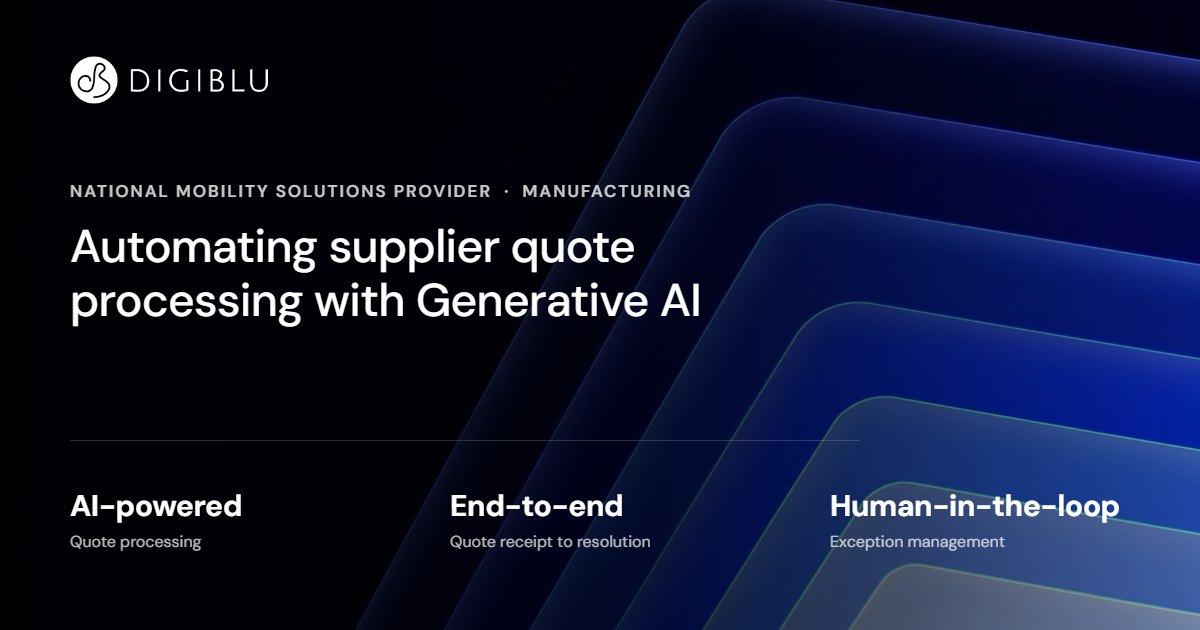
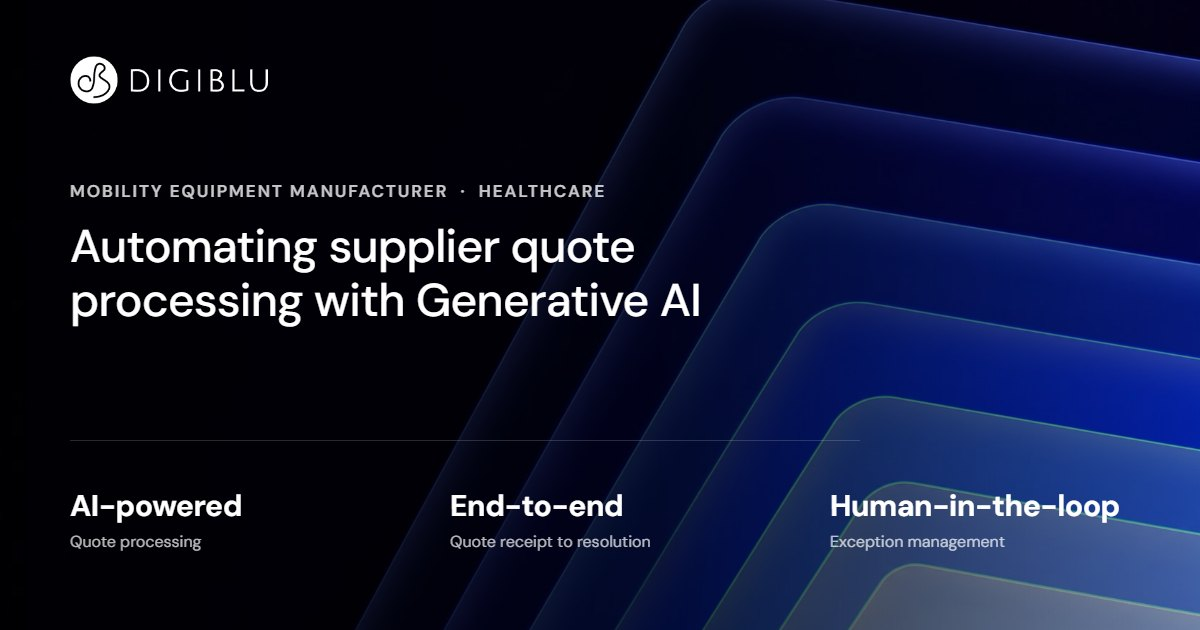
Quote-processing case study: anonymous client label, healthcare sector
"Mobility equipment manufacturer" in place of "National mobility
solutions provider", which hinted at the client's name; sector Healthcare
so the eyebrow does not read "manufacturer, manufacturing". Share card
rebuilt with the new label, from a receiver that now serves the assets
itself since the old static site is gone.

Changed region(s): [[0.0617, 0.2714, 0.5858, 0.3317]]

diff --git a/components/sections/CaseStudies.tsx b/components/sections/CaseStudies.tsx
@@ -58,7 +58,7 @@ export default function CaseStudies() {
             <article className="case">
               <div className="case-grid">
                 <div>
-                <span className="case-client">National mobility solutions provider</span>
+                <span className="case-client">Mobility equipment manufacturer</span>
                 <h3 className="case-headline">Automating supplier quote processing with Generative AI</h3>
                 </div>
                 <div>

diff --git a/CLAUDE.md b/CLAUDE.md
@@ -209,7 +209,7 @@ CSS custom properties on `:root`, redefined under `:root[data-theme="light"]` an
    - **The sidebar paginates at 10 rows.** `PAGE_SIZE` in the case-study IIFE; `#caseReaderPager` renders prev / numbered pages / next below the list, and **only when there is more than one page** - a lone "Page 1" is noise, so at today's eight case studies nothing shows and it turns itself on at the eleventh with no further wiring. The page follows the selection: opening a case study from a card calls `markActive`, which switches to the page holding that entry before highlighting, so the reader never highlights a row that is not on screen. **`.reader-list`'s horizontal padding is load-bearing, not spacing**: rows carry `margin: 0 -14px` so the selected/hover fill bleeds past the text column, and a scroll container clips what overflows it - so the moment the list became the scroller, that bleed was cut and the selected blue row rendered visibly cropped down its left edge (reported). Matching `padding: 0 14px` with a compensating negative margin gives the bleed room inside the scroller. **The list scrolls, not the aside** (`.reader-list` took over `overflow-y`, `.reader-side` is now `overflow: hidden`) - otherwise the pager sits below ten rows of content and you have to scroll to reach it. Buttons go to 38px below 900px for touch. Verified by temporarily setting `PAGE_SIZE = 3` against the real eight entries, which is the only way to exercise the multi-page path before an eleventh case study exists.
    - **On a phone the close X is a header row, not a float.** At or below 640px the panel is a column and the reading pane is its own scroller, so the absolutely positioned X (a child of the panel, not the pane) stayed put while the photograph, eyebrow pill and stat boxes scrolled under it (reported 2 Sep 2026). It is now in flow above the pane, right-aligned, the panel is `overflow: hidden` and the pane scrolls beneath it - the contact modal's pattern, including the `min-height: 0` without which the pane grows the panel instead of scrolling. Applied to the service dialog too, which shares the structure. Above 640px the pane's 52px gutter keeps the X clear, so desktop is untouched.
    - **Reader layout, not index + detail.** On request ("all articles should be left side of this screen and read full article on the right, apply same logic throughout i.e. case studies") the separate index popup (`#caseIndexModal`) was removed and the detail dialog became a two-pane reader: `.reader-side` (330px, every engagement as a `.case-index-item` row, the one being read on brand blue via `.is-active` + `aria-current`) beside the existing `.case-modal-body`. `.modal-panel` was already a flex row, so the two columns each scroll independently inside its max-height; `.modal-panel.reader-panel` raises the max-width to 1140px (doubled selector because `.case-modal-panel`/`.service-panel` set their own at equal specificity, later in the file). Picking a row calls `select(key)` - populate in place, reset the reading pane's scroll, and nudge the sidebar only if the row is out of view, so clicking a row near the bottom does not yank the list to the top. **Below 900px** the sidebar is `display: none` and the footer's "All case studies" button (`.case-back-btn.reader-toggle`, hidden on desktop) adds `.show-list` to the panel, which swaps the reading pane out for the list; picking a row swaps back. "View all" opens the reader on the last-read entry (first, before any) with `.show-list` set, so on mobile it lands on the list. Verified at 1829px and 375px in both directions, plus ctrl-click still navigating.
-   - **A ninth case study, "Automating supplier quote processing with Generative AI", was added on 10 Sep 2026** (key `quote-processing`, client "National mobility solutions provider", sector Manufacturing, service Artificial Intelligence) from copy DigiBlu supplied, **and it took Cedar Creek Church's featured slot** (featured 3; Cedar Creek stays in the reader at order 4, the new one at order 3). The client is NSM, National Seating & Mobility, and is **anonymised at DigiBlu's request** the way the healthcare provider and the US city agency are - the key and the URL carry no client name. Reformatted to the set's shape: one paragraph per section, condensed from the supplied multi-paragraph sections keeping DigiBlu's facts and phrasing (the Cedar Creek precedent), the supplied title "AI-Powered Quote Processing Automation" recast as a gerund sentence-case headline like the other eight, the three supplied "big stats" (phrases, not numbers) split into pill value + label ("AI-powered / Quote processing", "End-to-end / Quote receipt to resolution", "Human-in-the-loop / Exception management"), and three card tags on the home page. **The quote is the "e.g." placeholder from the brief**, attributed as supplied to Tim Sunley, Client Engagement Lead, DigiBlu, and marked `[INSERT QUOTE]` in the brief - it stays until DigiBlu confirms or replaces it. **No photograph yet**: `photo` points at `/assets/case-studies/quote-processing.jpg`, which does not exist, so the reader shows the `.aN` gradient fallback (the Cedar Creek precedent); a download needs the user's yes. The share card exists (`public/assets/og/case-studies/quote-processing.jpg`, built as the others). "Manufacturing" is the sector because the brief calls the client "a large national manufacturer and provider of mobility solutions"; DigiBlu may prefer another label.
+   - **A ninth case study, "Automating supplier quote processing with Generative AI", was added on 10 Sep 2026** (key `quote-processing`, client "Mobility equipment manufacturer", sector Healthcare, service Artificial Intelligence - **the label was "National mobility solutions provider" for an hour and was changed because "National ... Mobility" hints at the client's name; the user asked for "mobility manufacturer or something like that". Healthcare rather than Manufacturing as the sector so the eyebrow does not read "manufacturer · manufacturing"**) from copy DigiBlu supplied, **and it took Cedar Creek Church's featured slot** (featured 3; Cedar Creek stays in the reader at order 4, the new one at order 3). The client is NSM, National Seating & Mobility, and is **anonymised at DigiBlu's request** the way the healthcare provider and the US city agency are - the key and the URL carry no client name. Reformatted to the set's shape: one paragraph per section, condensed from the supplied multi-paragraph sections keeping DigiBlu's facts and phrasing (the Cedar Creek precedent), the supplied title "AI-Powered Quote Processing Automation" recast as a gerund sentence-case headline like the other eight, the three supplied "big stats" (phrases, not numbers) split into pill value + label ("AI-powered / Quote processing", "End-to-end / Quote receipt to resolution", "Human-in-the-loop / Exception management"), and three card tags on the home page. **The quote is the "e.g." placeholder from the brief**, attributed as supplied to Tim Sunley, Client Engagement Lead, DigiBlu, and marked `[INSERT QUOTE]` in the brief - it stays until DigiBlu confirms or replaces it. **No photograph yet**: `photo` points at `/assets/case-studies/quote-processing.jpg`, which does not exist, so the reader shows the `.aN` gradient fallback (the Cedar Creek precedent); a download needs the user's yes. The share card exists (`public/assets/og/case-studies/quote-processing.jpg`, built as the others). The overview keeps the brief's own words, "a large national manufacturer and provider of mobility solutions".
    - **First National Bank was replaced by Cedar Creek Church on 8 Sep 2026** (key `cedar-creek`, Faith & Community, Digital Solutions: six Jotform workflows in three weeks), on request, from copy DigiBlu supplied. It went in verbatim first (four multi-paragraph sections) and was **condensed the same day on request** ("seems long in comparison") to one paragraph per section like the other seven, keeping DigiBlu's own facts and phrasing; the full text is in git history. The quote is a contiguous excerpt - the first three sentences of the supplied quote - not a paraphrase. `addSection()` and the generator still split a body on a literal `\n` into one `<p>` each, added for the verbatim version; nothing uses it today, but a future multi-paragraph entry can. The FNB static page, photo and share card were deleted; the sidebar still counts eight.
    - **The stat pills have no ring since 10 Sep 2026** ("remove the outline, apply throughout the case studies section"): the faint white 1px border, a rim for the flat-blue version, read as an outline on the sweep. `.case-stat` is its fill alone, in the reader and on every case-study page. The home page's `.case-tag` hairline chips and the "View all" ghost button keep their borders - they are outlines by design, not rims - unless asked.
    - **The client quote's left rule is flat brand blue (`--blue`) in both themes since 10 Sep 2026**: it carried the `--brand-ink` sweep, which in dark theme is the family's bright end (#6aa4ff to #1d6ef5) and was reported as needing to be "brand blue" beside the navy pills. A 3px rule cannot show a gradient, and the fill's navy end is 1.4:1 on black, so the flat blue is the honest match for what the pills read as.

diff --git a/content/case-studies/quote-processing.md b/content/case-studies/quote-processing.md
@@ -1,7 +1,7 @@
 ---
 key: "quote-processing"
-client: "National mobility solutions provider"
-sector: "Manufacturing"
+client: "Mobility equipment manufacturer"
+sector: "Healthcare"
 service: "Artificial Intelligence"
 title: "Automating supplier quote processing with Generative AI"
 order: 3
